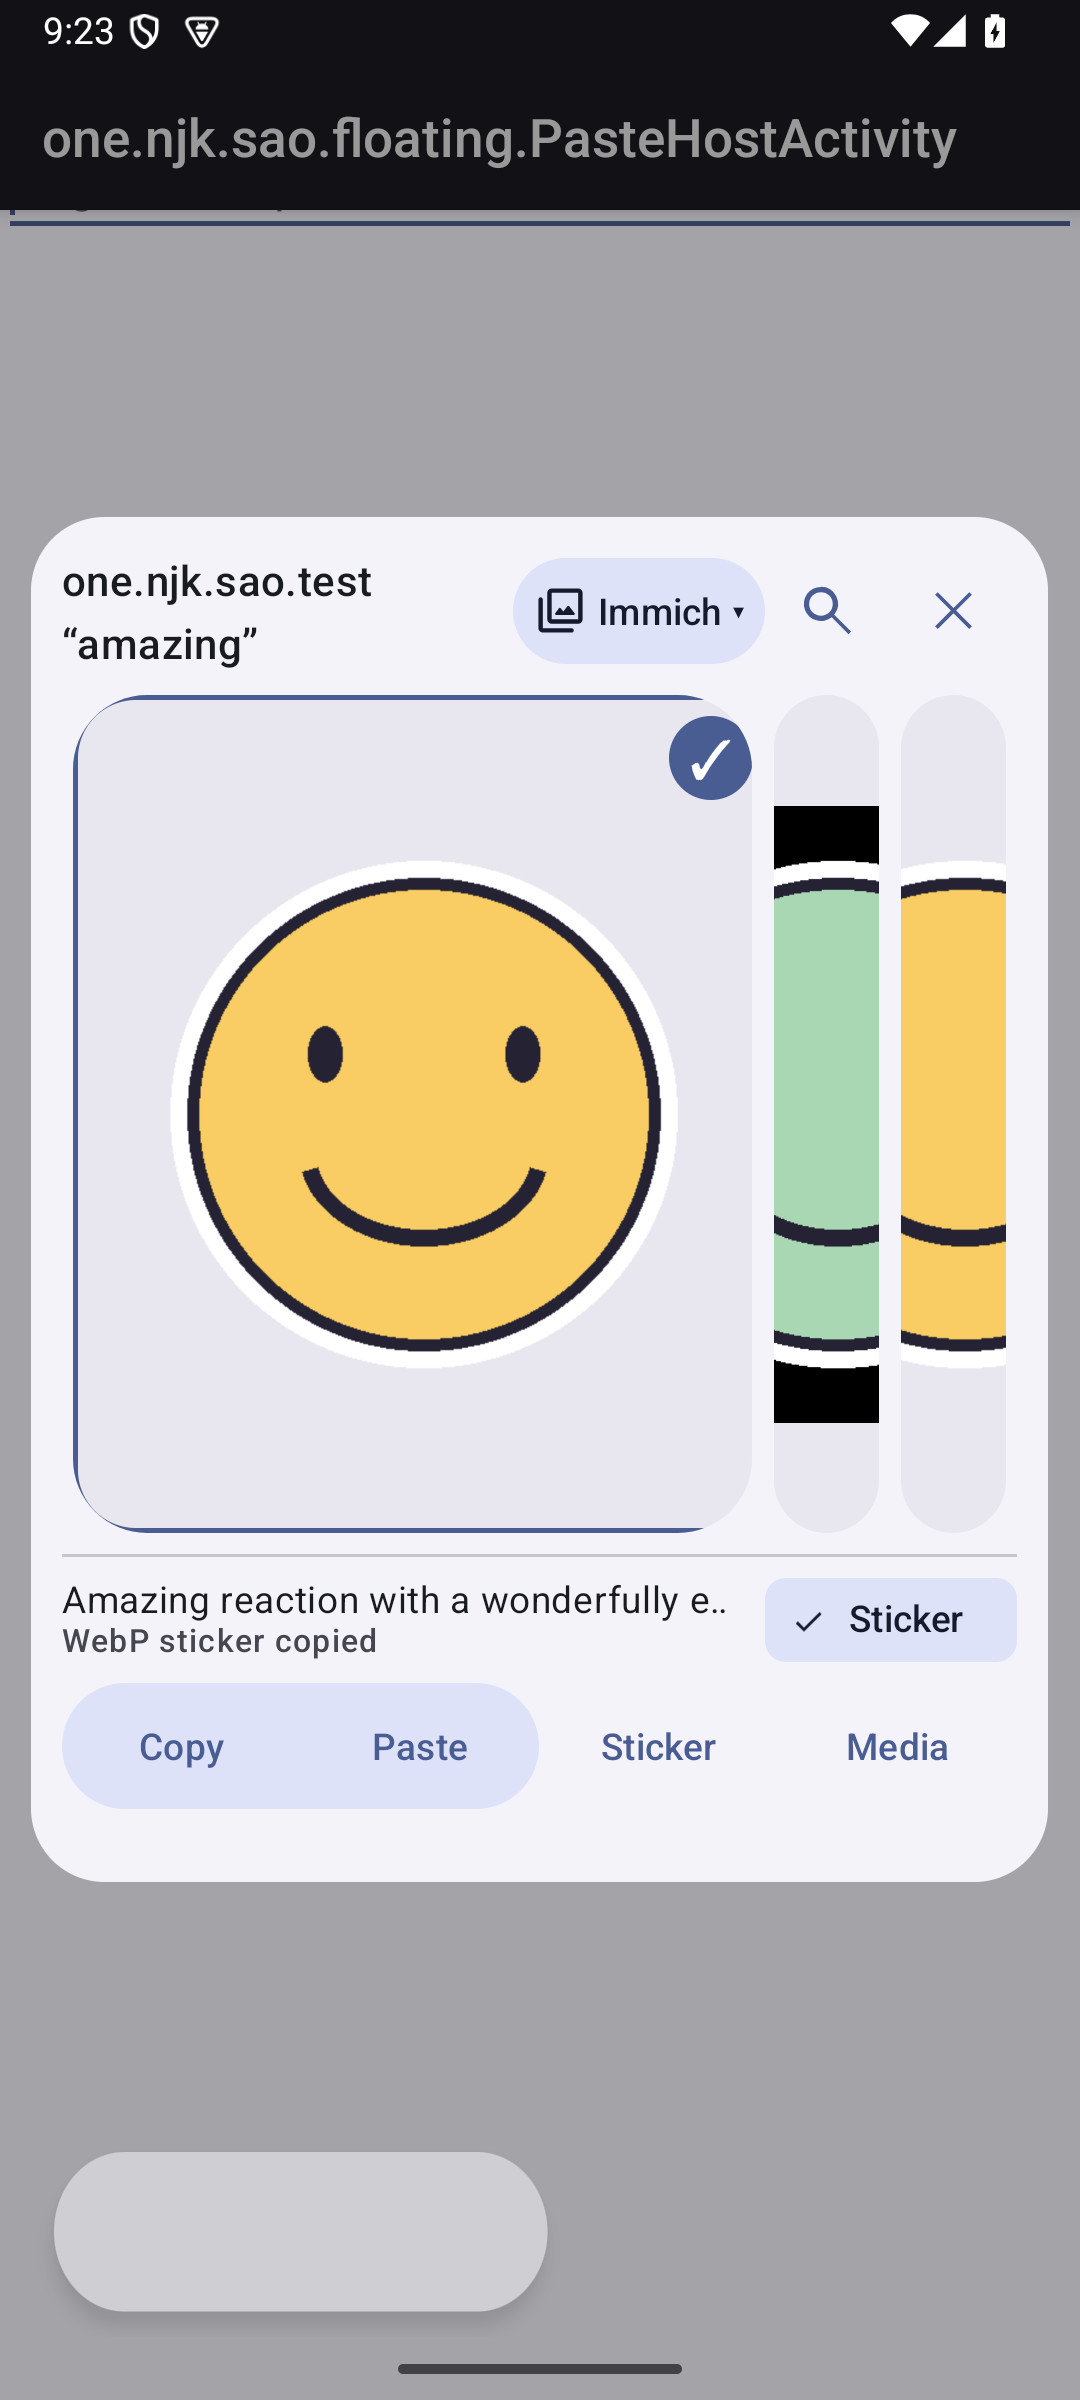
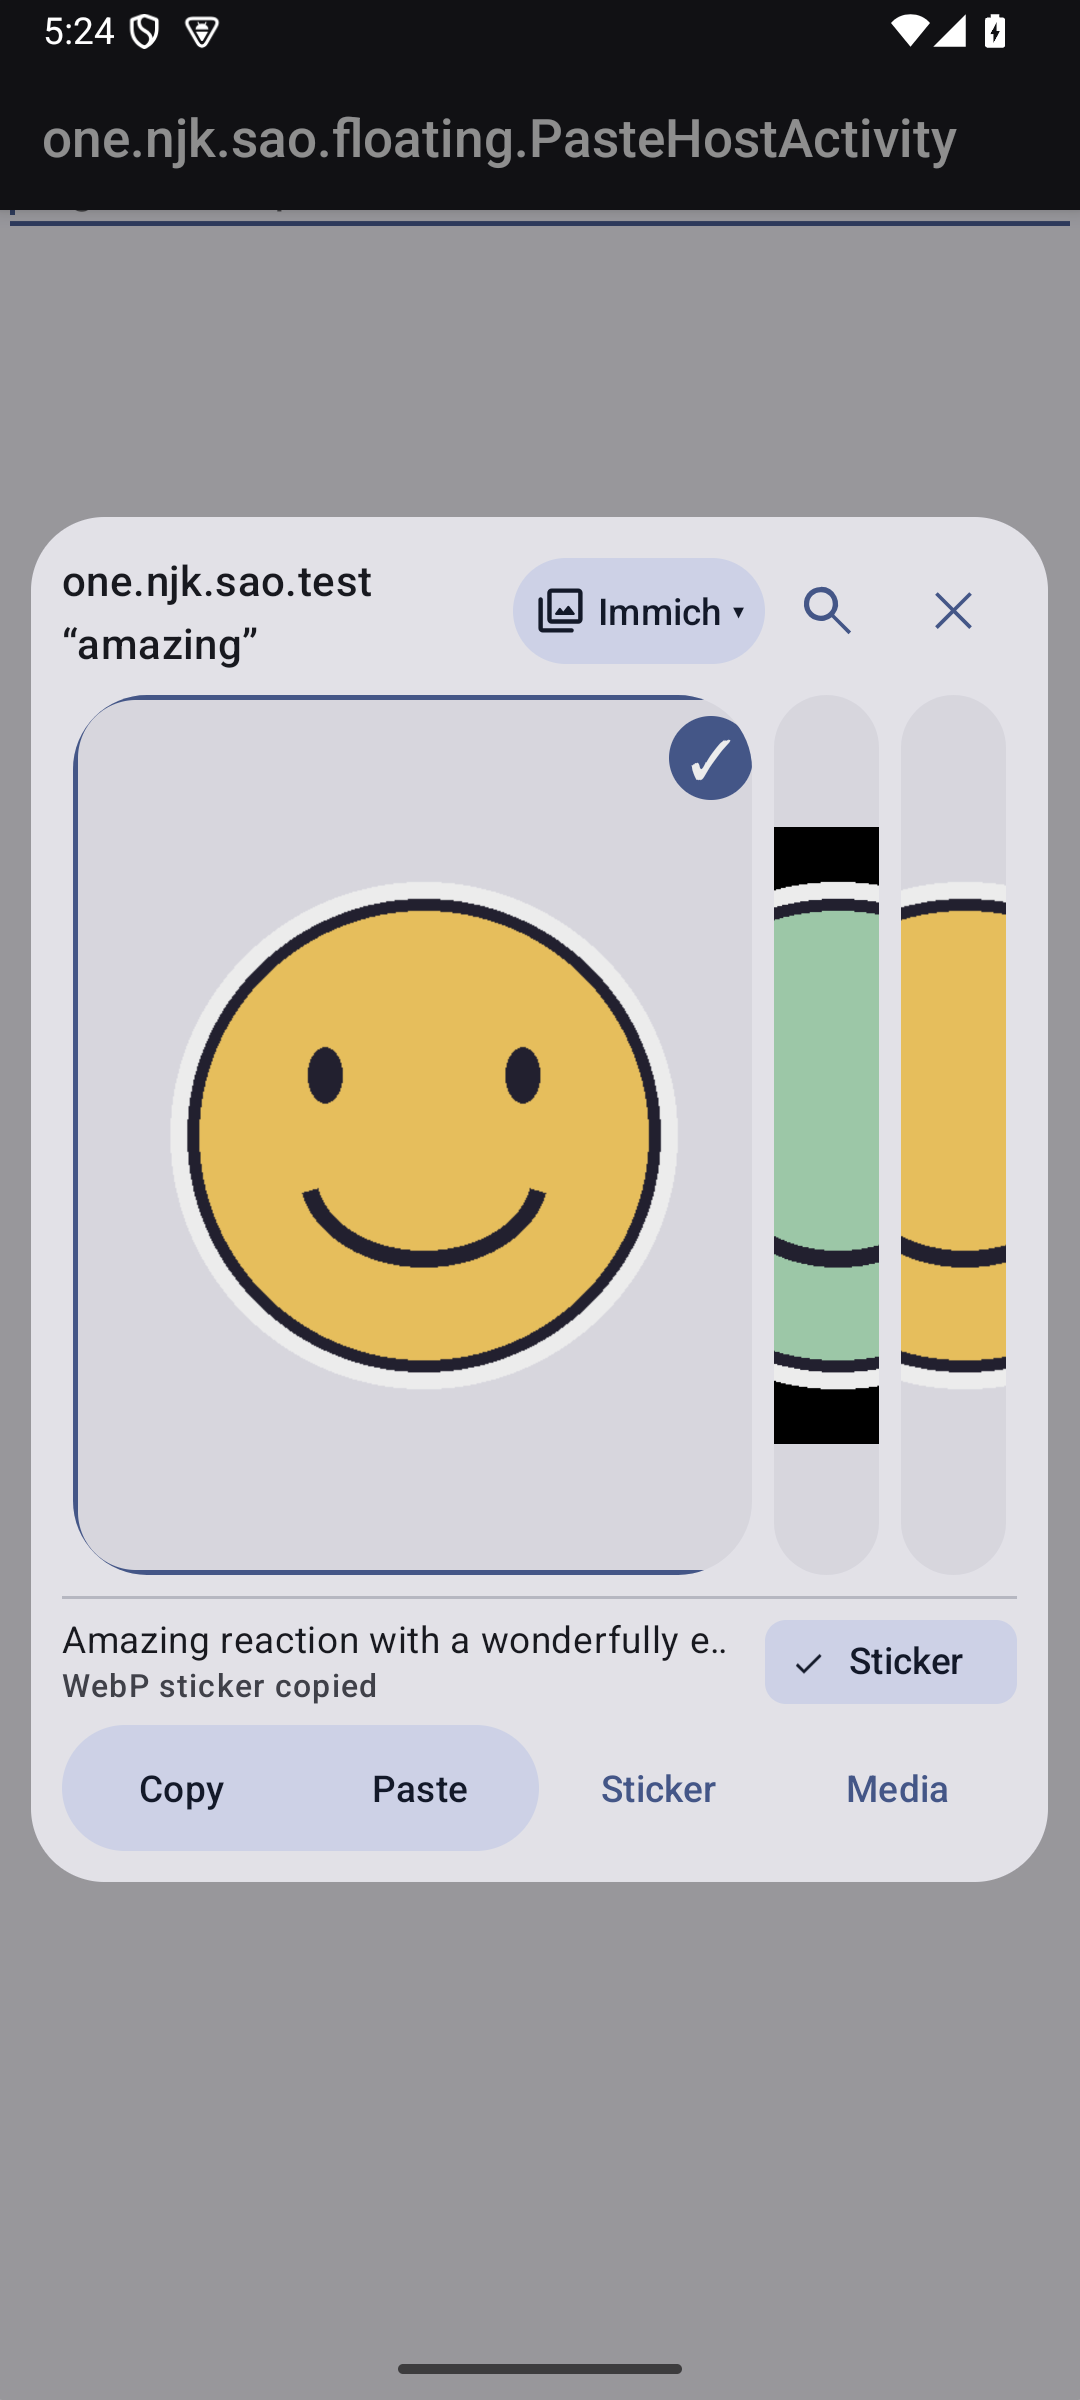
Balance picker spacing and Material color roles

diff --git a/app/src/androidTest/java/one/njk/sao/floating/PasteAssistDeviceTest.kt b/app/src/androidTest/java/one/njk/sao/floating/PasteAssistDeviceTest.kt
@@ -330,7 +330,8 @@ class PasteAssistDeviceTest {
                         val dock = activity.findViewById<View>(one.njk.sao.R.id.dock_surface)
                         assertSame("The tip belongs below the title", title.parent, hint.parent)
                         val gap = hint.top - title.bottom
-                        assertTrue("The message must sit directly beneath the title, gap=$gap", gap in 0..2)
+                        val density = activity.resources.displayMetrics.density
+                        assertTrue("The message needs a small gap beneath the title, gap=$gap", gap in density.toInt()..(3 * density).toInt())
                         val textBlock = activity.findViewById<View>(one.njk.sao.R.id.selection_text)
                         val chip = activity.findViewById<View>(one.njk.sao.R.id.prefer_stickers)
                         assertEquals("The two-line text block and mode chip must share a vertical center",

diff --git a/app/src/main/java/one/njk/sao/floating/PickerActivity.kt b/app/src/main/java/one/njk/sao/floating/PickerActivity.kt
@@ -605,7 +605,6 @@ class PickerActivity : AppCompatActivity() {
             binding.pickerPanel.radius = (if (tight) 16 else 28) * density
             binding.pickerHeader.layoutParams = LinearLayout.LayoutParams(if (tight) 0 else -1, if (tight) -1 else -2, if (tight) 1f else 0f)
             binding.dockSurface.layoutParams = LinearLayout.LayoutParams(if (tight) (192 * density).toInt() else -1, if (tight) -1 else -2)
-            binding.dockSurface.minimumHeight = if (tight) 0 else (64 * density).toInt()
             binding.actionDock.orientation = if (twoRows) LinearLayout.VERTICAL else LinearLayout.HORIZONTAL
             binding.actionDock.gravity = Gravity.CENTER_VERTICAL
             for (i in 0 until binding.actionDock.childCount) binding.actionDock.getChildAt(i).layoutParams =

diff --git a/app/src/main/java/one/njk/sao/floating/HoldDragSelector.kt b/app/src/main/java/one/njk/sao/floating/HoldDragSelector.kt
@@ -157,7 +157,6 @@ internal class HoldDragSelector<T>(private val anchor: View, private val host: F
                 maxLines = 2; ellipsize = android.text.TextUtils.TruncateAt.END
                 val focal = index == (visibleRows + 2) / 2
                 setTextColor(if (focal) onSelected else onSurface)
-                alpha = if (focal) 1f else .65f
                 setTypeface(null, if (focal) Typeface.BOLD else Typeface.NORMAL)
                 view.holdChoiceRows.addView(this, LinearLayout.LayoutParams(-1, rowHeight))
             }

diff --git a/docs/screenshots/README.md b/docs/screenshots/README.md
@@ -2,9 +2,9 @@
 
 Captured on the Android 15 emulator using bundled samples and a localhost Immich fixture. The emulator has no native hook framework; native delivery was checked separately with recording APK probes and on the user's phone.
 
-| Carousel and automatic copy | Context search selector | Inline floating settings |
+| Carousel in light mode | Carousel in dark mode | Context search selector |
 | --- | --- | --- |
-| <img src="floating-carousel.png" width="260" alt="Sample carousel with a highlighted image, clipboard status and bottom action dock" /> | <img src="floating-search.png" width="260" alt="Expanded Context selector with looping drag choices during text and emoji search" /> | <img src="floating-settings.png" width="260" alt="Floating picker controls below the existing main settings" /> |
+| <img src="floating-carousel.png" width="260" alt="Light picker with balanced bottom spacing, tonal actions and aligned title and feedback" /> | <img src="floating-carousel-dark.png" width="260" alt="Dark picker using matching Material foreground and container roles" /> | <img src="floating-search.png" width="260" alt="Expanded Context selector with looping drag choices during text and emoji search" /> |
 
 Opening SAO shows the floating icon automatically once overlay access is granted. The inline “Show icon on app launch” setting is enabled by default; Stop or dismissal ends the current session.
 
@@ -18,10 +18,7 @@ The optional sequence view follows Immich's Photos ordering and labels each card
 | --- | --- |
 | <img src="floating-sequence.png" width="280" alt="Chronological neighbors with upload date and time and a Back to results action" /> | <img src="floating-sequence-settings.png" width="280" alt="Browse sequence toggle and configurable 160 millisecond hold delay" /> |
 
-The title and one supporting message line form a compact block centered beside the
-Sticker/Media chip. Copy feedback and guidance share that line, which reserves space
-when empty; overflowing labels pause for 1.5 seconds before scrolling. Opening search selects the
-whole existing query, and Lucky's icon follows the Material light/dark theme.
+The title and supporting message have a subtle 2 dp gap taken from existing padding, keeping their block aligned with the Sticker/Media chip. Empty messages reserve the same space; overflowing labels pause for 1.5 seconds before scrolling. The action row has the same 12 dp panel inset as the sides. Tonal actions, supporting labels and motion badges follow Material light/dark color roles. Opening search selects the whole existing query, and Lucky's icon follows the theme.
 
 | Dock text above actions | Search selection in dark mode | Accessibility instructions |
 | --- | --- | --- |

diff --git a/docs/floating-picker.md b/docs/floating-picker.md
@@ -173,15 +173,12 @@ also disable actions. The title follows the center, and an earlier item's copy
 status is not shown under a different item. Instagram receiver discovery reruns
 on media MIME changes, not on every scroll frame or every photo.
 
-Title, copy status and delivery tips each reserve one line at the current font
-size. An empty tip stays invisible while retaining its space, so image/GIF
-transitions do not resize the carousel. Long text uses the platform TextView
-marquee with the full text available to accessibility; it stops when the picker
-stops. Unchanged tips are not reassigned during capability refreshes, preserving
-the scroll animation. The Context **amazing** regression uses a local Immich
-fixture to compare exact carousel/dock bounds across empty, copied and GIF-tip
-states, and pixel comparisons verify that overflowing titles and tips scroll
-at normal and 200% text sizes.
+The title and SAO's feedback form a two-line block with a fixed 2 dp gap, centered beside the Sticker/Media chip. The gap comes from the block's existing vertical padding, preserving the row height and neighboring alignment. Each line reserves its height at the current font size; empty feedback stays invisible without removing its space. Long text uses the platform TextView marquee after a 1.5-second reading pause. The Context **amazing** localhost regression checks stable carousel/dock bounds across empty, copied and GIF-tip states at normal and 200% text sizes.
+
+The embedded dock follows its action row's measured height instead of reserving the standalone toolbar's 64 dp minimum. This removes 16 dp of empty bottom space at normal text size while retaining the panel's 12 dp inset and the buttons' standard touch targets.
+
+Colors follow [Material 3's roles](https://m3.material.io/styles/color/the-color-system): low/high surface containers for the panel/cards, on-surface titles, and on-surface-variant supporting text. Copy/Paste inherit the official tonal button's on-secondary-container foreground, ripple and disabled states against their shared secondary container. Motion badges have an opaque surface container behind their text; selector labels use their semantic foreground without extra alpha fading. Activity dynamic color and DayNight theming resolve these roles for the current wallpaper and theme.
+
 Screenshots: [empty tip](screenshots/floating-dock-empty.png),
 [overflowing title and tip](screenshots/floating-dock-marquee.png).
 
